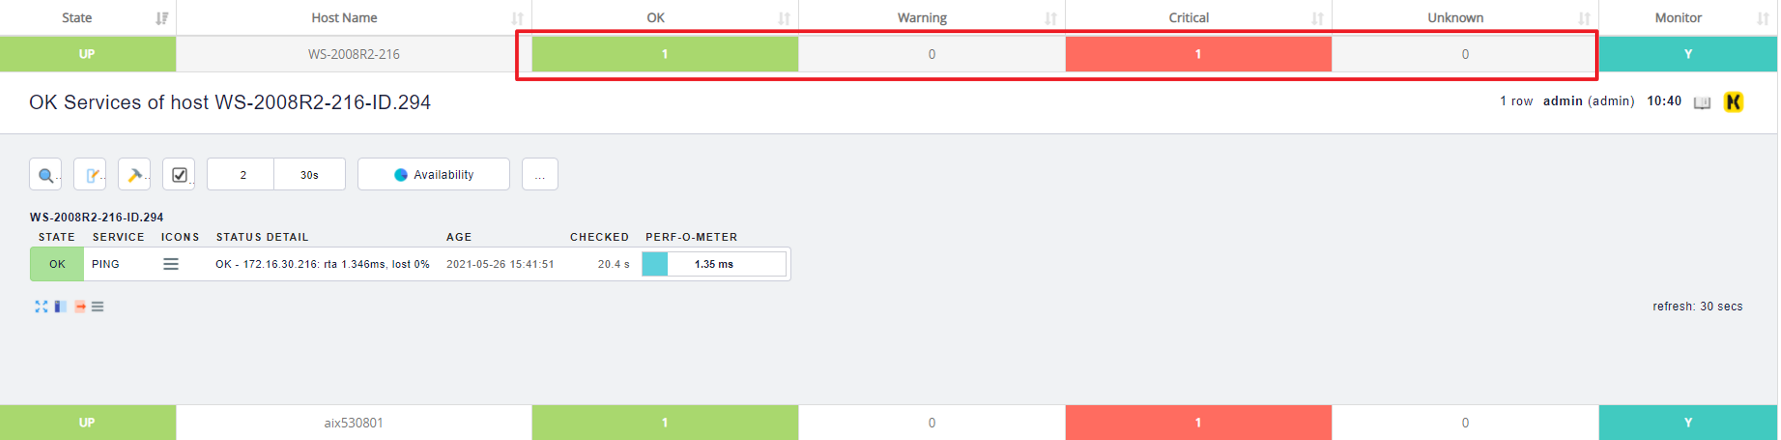
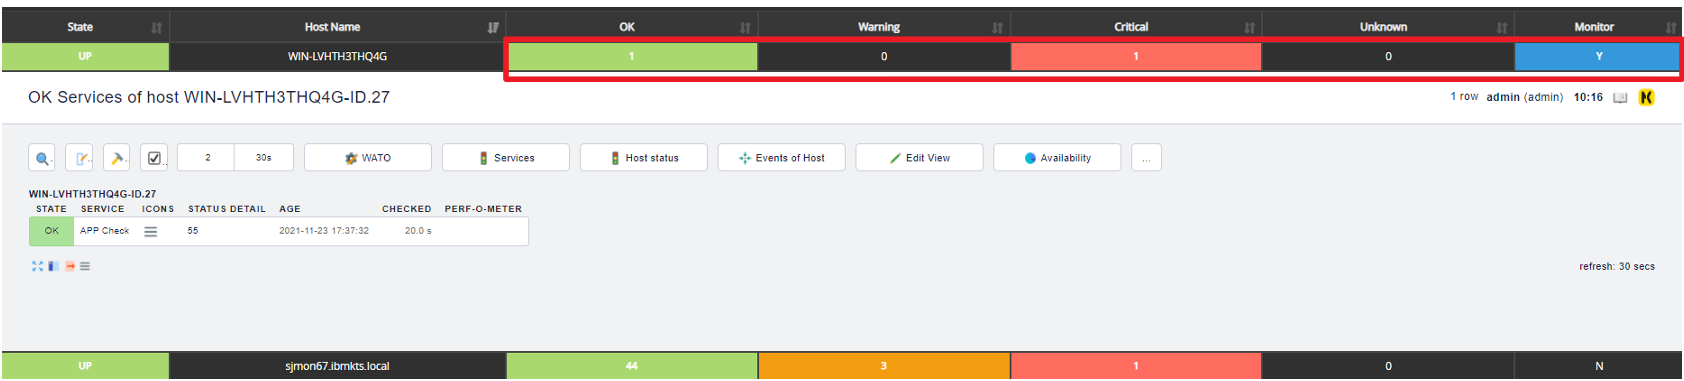
(kjs) nagios 캡쳐화면 다크모드로 변경
(kjs) nagios 캡쳐화면 다크모드로 변경

diff --git a/user-guide/user_index/index.html b/user-guide/user_index/index.html
@@ -924,8 +924,8 @@ Application은 TOP Service, TOP SQL, Top Exception을 확인할 수 있습니다
 
 <h3 id="1-host-status">1) Host Status</h3>
 <p>NAGIOS에 등록 된 Host의 상태 및 호스트 별 서비스 상태 현황 및 통계를 확인 할 수 있습니다</p>
-<p><strong>SJMON Viewer에 접속 -&gt; Nagios -&gt; Host Status 선택</strong><br />
-<img alt="image-20210602101439504" src="../user_guide_image/nagios_host_status.png" /></p>
+<p><strong>SJMON Viewer에 접속 -&gt; Nagios -&gt; Host Status 선택</strong>  <br />
+<img alt="image-20211220094938522" src="../user_guide_image/nagios_host_status.png" /></p>
 <ul>
 <li>화면의 데이터가 갱신 된 시간을 표기합니다.<br />
 <img alt="image-20210602103256280" src="../user_guide_image/nagios_host_status_refresh.png" /></li>
@@ -934,7 +934,7 @@ Application은 TOP Service, TOP SQL, Top Exception을 확인할 수 있습니다
 
 <ul>
 <li>Host 서버의 UP, Down 상태를 표기합니다.<br />
-<img alt="image-20210602103327195" src="../user_guide_image/nagios_host_status_state.png" /></li>
+<img alt="image-20211220101154950" src="../user_guide_image/nagios_host_status_state.png" /></li>
 </ul>
 <p></p>
 
@@ -950,7 +950,7 @@ Application은 TOP Service, TOP SQL, Top Exception을 확인할 수 있습니다
 </li>
 <li>
 <p>해당 Host의 모니터 화면으로 이동이 불가합니다<br />
-<img alt="image-20210602103341820" src="../user_guide_image/nagios_host_status_monitor.png" /></p>
+<img alt="image-20211220101347957" src="../user_guide_image/nagios_host_status_monitor.png" /></p>
 </li>
 </ul>
 <p></p>
@@ -958,32 +958,32 @@ Application은 TOP Service, TOP SQL, Top Exception을 확인할 수 있습니다
 <ul>
 <li>각 호스트의 서비스 상태 별 합산 정보를 표기합니다.<br />
   (상태에 대한 기준은 <strong>NAGIOS Rule Configuration</strong>에 의해 산정됩니다.)<br />
-<img alt="image-20210602103829758" src="../user_guide_image/nagios_host_status_detail.png" /></li>
+<img alt="image-20211220101455283" src="../user_guide_image/nagios_host_status_detail.png" /></li>
 </ul>
 <p></p>
 
 <ul>
 <li>합산 정보에 대한 셀을 클릭 시 클릭 한 상태의 상세 정보를 하단에 출력합니다.<br />
   (추가 클릭 시 상세 화면은 닫힙니다.)<br />
-<img alt="image-20210602104143278" src="../user_guide_image/nagios_host_status_detail2.png" /></li>
+<img alt="image-20211220101952931" src="../user_guide_image/nagios_host_status_detail2.png" /></li>
 </ul>
 <p><br></p>
 <h3 id="2-service-status">2) Service Status</h3>
 <p>NAGIOS에 등록 된 그룹별 Service의 상태 및 서비스 현황을 확인 할 수 있는 메뉴를 제공합니다. <br />
 ※ 해당 메뉴는 NAGIOS와 연동이 되어야 이용 할 수 있는 메뉴입니다.</p>
 <p><strong>SJMON Viewer에 접속 -&gt; Nagios -&gt; Service Status 선택 </strong><br />
-<img alt="image-20210602104311729" src="../user_guide_image/nagios_service_status.png" /><br />
-<img alt="image-20210602104447759" src="../user_guide_image/nagios_service_status2.png" /></p>
+<img alt="image-20211220132511944" src="../user_guide_image/nagios_service_status.png" /><br />
+<img alt="image-20211220132605138" src="../user_guide_image/nagios_service_status2.png" /></p>
 <ul>
 <li>ALL SERVICE STATUS 는 전체 서비스에 대한 상태 별 합계를 나타냅니다.<br />
   (상태에 대한 기준은 <strong>NAGIOS Rule Configuration</strong>에 의해 산정됩니다)<br />
-<img alt="image-20210602104447759" src="../user_guide_image/nagios_service_status_all.png" /></li>
+<img alt="image-20211220132703380" src="../user_guide_image/nagios_service_status_all.png" /></li>
 </ul>
 <p></p>
 
 <ul>
 <li>각 서비스 그룹 별 서비스상태 (좌측부터 OK, WARNING, CRITICAL) 및 합계를 나타냅니다.<br />
-<img alt="image-20210602104545058" src="../user_guide_image/nagios_service_status_service.png" /></li>
+<img alt="image-20211220133037653" src="../user_guide_image/nagios_service_status_service.png" /></li>
 </ul>
 <p></p>
 
@@ -995,7 +995,7 @@ Application은 TOP Service, TOP SQL, Top Exception을 확인할 수 있습니다
 <p>NAGIOS에 발생한 최근 3일의 모든 이벤트(=HOST, SERVICE 상태 변동 및  NOTIFICATION 발생내역)를 확인 할 수 있습니다. <br />
 ※ 해당 메뉴는 NAGIOS와 연동이 되어야 이용 할 수 있는 메뉴입니다.</p>
 <p><strong>SJMON Viewer에 접속 -&gt; Nagios -&gt; Event Console 선택</strong><br />
-<img alt="image-20210602104816591" src="../user_guide_image/nagios_event_console.png" />  <img alt="image-20210602111241862" src="../user_guide_image/nagios_event_console_list.png" /></p>
+<img alt="image-20211220132936597" src="../user_guide_image/nagios_event_console.png" />  <img alt="image-20210602111241862" src="../user_guide_image/nagios_event_console_list.png" /></p>
 <ul>
 <li>
 <p><img alt="image-20210602111313016" src="../user_guide_image/nagios_event_console_refresh.png" /> -  클릭 시 화면을 갱신합니다.</p>
